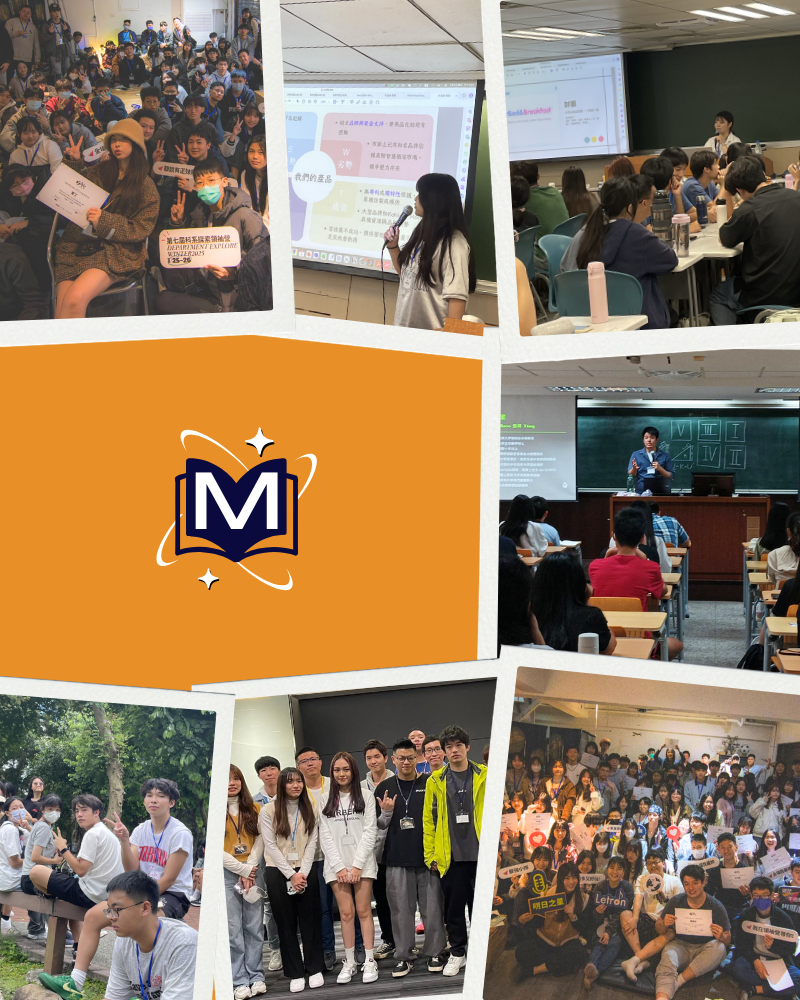
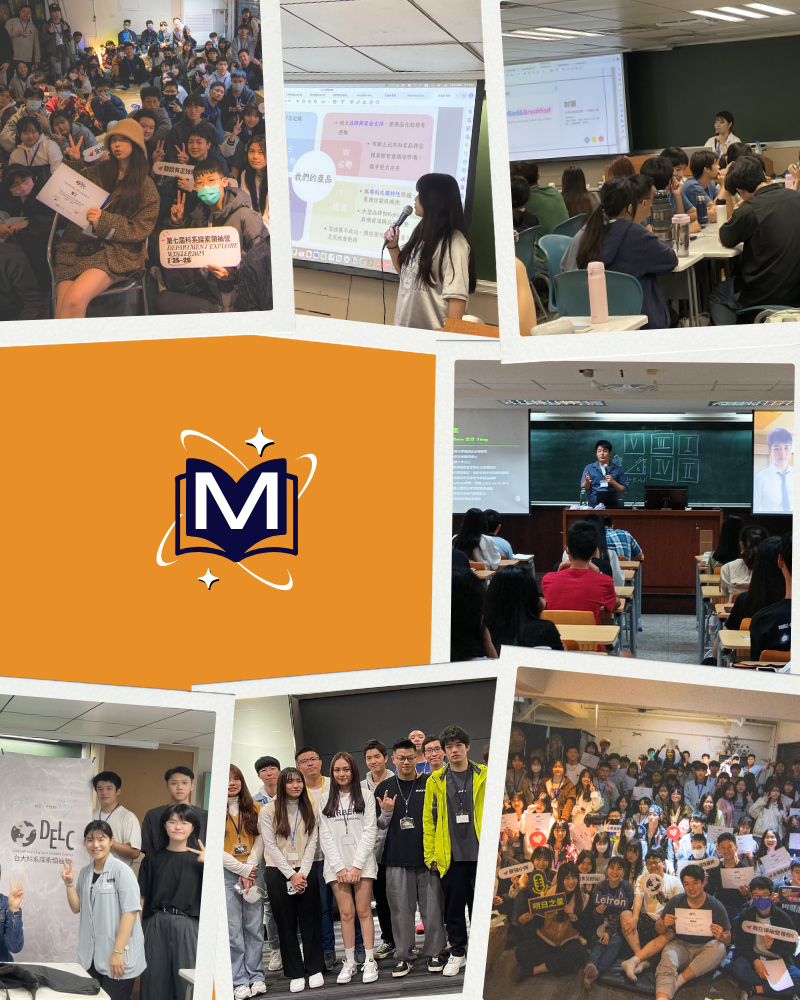
fix: 團隊照更換並對齊左欄文字高度

Changed region(s): [[0.5312, 0.31, 1.0, 0.682], [0.0, 0.682, 0.2812, 1.0]]

diff --git a/src/app/(site)/about/page.tsx b/src/app/(site)/about/page.tsx
@@ -239,7 +239,7 @@ export default function AboutPage() {
       {/* ── 創辦理念 ───────────────────────────── */}
       <section className="py-20" style={{ background: 'var(--cream)' }}>
         <div className={inner}>
-          <div className="grid grid-cols-1 lg:grid-cols-2 gap-16 items-start">
+          <div className="grid grid-cols-1 lg:grid-cols-2 gap-16 items-stretch">
 
             {/* Left: text */}
             <div>
@@ -282,8 +282,8 @@ export default function AboutPage() {
             </div>
 
             {/* Right: team photo */}
-            <div>
-              <div className="relative overflow-hidden" style={{ aspectRatio: '4 / 3' }}>
+            <div className="flex">
+              <div className="relative overflow-hidden w-full min-h-[320px]">
                 <Image src="/team-photo.png" alt="明慧教育團隊" fill className="object-cover" sizes="(max-width: 1024px) 100vw, 50vw" />
                 <span className="absolute top-0 left-0 w-10 h-10 pointer-events-none" style={{ borderTop: '2px solid var(--accent)', borderLeft: '2px solid var(--accent)', opacity: 0.5 }} aria-hidden="true" />
                 <span className="absolute bottom-0 right-0 w-10 h-10 pointer-events-none" style={{ borderBottom: '2px solid var(--accent)', borderRight: '2px solid var(--accent)', opacity: 0.5 }} aria-hidden="true" />
